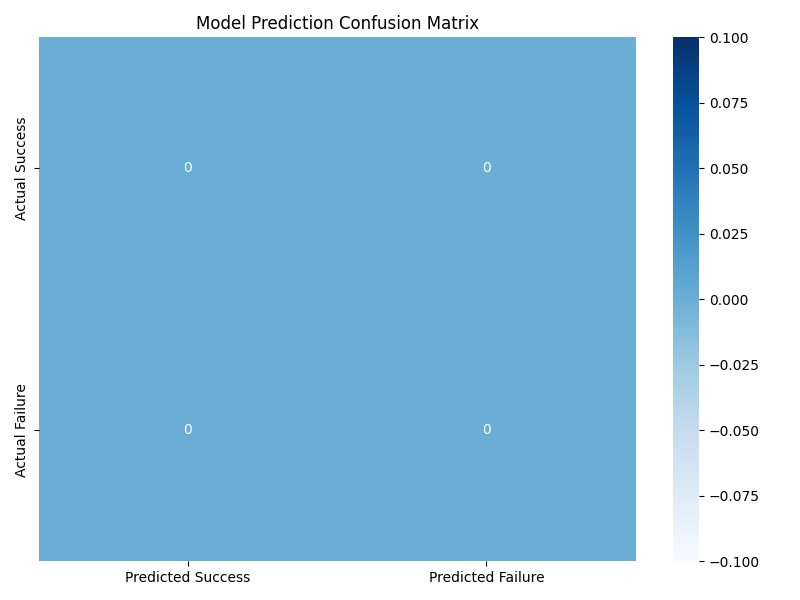
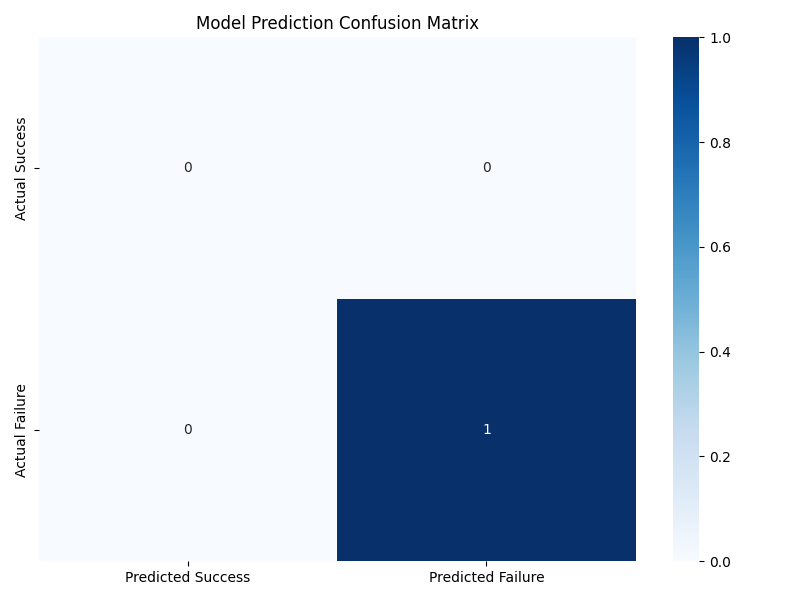
fix: update prompts for clarity, modify robot stop functionality, and adjust LLM parameters: need to fix evaluation results

diff --git a/src/flask_app/templates/irl_index.html b/src/flask_app/templates/irl_index.html
@@ -64,8 +64,8 @@
             {% endif %}
     </div>
 
-    <form action="{{ url_for('robot_set_home') }}" method="post">
-        <button type="submit">Stop LLM Control</button>
+    <form action="{{ url_for('stop_robot') }}" method="post">
+        <button type="submit">Stop Robot</button>
     </form>
 
 </div>

diff --git a/src/flask_app/evaluation_metrics.py b/src/flask_app/evaluation_metrics.py
@@ -221,6 +221,8 @@ class TaskEvaluator:
                         prompt_metrics[prompt_type] = []
 
                     # Calculate metrics
+                    prediction_metrics = self._calculate_prediction_metrics(task)
+
                     metrics_dict = {
                         "success": bool(task.completed),
                         "ground_truth_success": bool(task.ground_truth_success),
@@ -230,8 +232,12 @@ class TaskEvaluator:
                         "safety_violations": int(task.safety_violations),
                         "subtask_completion_rate": float(task.subtask_completion_rate),
                         "stuck_count": int(task.stuck_count),
-                        "subgoal_accuracy": self._calculate_subgoal_accuracy(task)
-                        **self._calculate_prediction_metrics(task)
+                        "subgoal_accuracy": self._calculate_subgoal_accuracy(task),
+                         "true_positives": prediction_metrics["true_positives"],
+                    "false_positives": prediction_metrics["false_positives"],
+                    "true_negatives": prediction_metrics["true_negatives"],
+                    "false_negatives": prediction_metrics["false_negatives"],
+                    "prediction_accuracy": prediction_metrics["prediction_accuracy"]
                     }
                     prompt_metrics[prompt_type].append(metrics_dict)
                 except Exception as e:
@@ -239,13 +245,14 @@ class TaskEvaluator:
                     continue
 
             # Generate plots with improved visualization
-            self._generate_metric_plots(prompt_metrics, output_dir)
+            if prompt_metrics:
+                self._generate_metric_plots(prompt_metrics, output_dir)
 
-            # Generate summary report
-            self._generate_summary_report(prompt_metrics, output_dir)
+                # Generate summary report
+                self._generate_summary_report(prompt_metrics, output_dir)
 
-            # Generate confusion matrix
-            self._plot_confusion_matrix(prompt_metrics, output_dir)
+                # Generate confusion matrix
+                self._plot_confusion_matrix(prompt_metrics, output_dir)
 
         except Exception as e:
             rich.print(f"[red]Error in generate_report:[/red] {e}")
@@ -355,36 +362,44 @@ class TaskEvaluator:
     def _generate_summary_report(self, prompt_metrics: Dict, output_dir: str):
         """Generate summary report with aggregate metrics"""
         try:
+            if not self.tasks:
+                rich.print("[yellow]No tasks to generate summary report from[/yellow]")
+                return
+
             report = {
-                "overall_metrics": {
-                    "total_tasks": len(self.tasks),
-                    "success_rate": sum(1 for t in self.tasks if t.completed) / len(self.tasks),
-                    "ground_truth_success_rate": sum(1 for t in self.tasks if t.ground_truth_success) / len(self.tasks),
-                    "prediction_accuracy": sum(1 for t in self.tasks
-                                            if t.completed == t.ground_truth_success) / len(self.tasks)
-                },
-                "metrics_by_task_type": {}
-            }
+            "overall_metrics": {
+                "total_tasks": len(self.tasks),
+                "success_rate": sum(1 for t in self.tasks if t.completed) / max(len(self.tasks), 1),
+                "ground_truth_success_rate": sum(1 for t in self.tasks if t.ground_truth_success) / max(len(self.tasks), 1),
+                "prediction_accuracy": sum(1 for t in self.tasks
+                                        if t.completed == t.ground_truth_success) / max(len(self.tasks), 1)
+            },
+            "metrics_by_task_type": {}
+        }
 
             # Calculate per task type metrics
             for prompt_type, metrics in prompt_metrics.items():
+
+                if not metrics:
+                    continue
+
                 report["metrics_by_task_type"][prompt_type] = {
-                    "total_tasks": len(metrics),
-                    "success_rate": sum(m["success"] for m in metrics) / len(metrics),
-                    "ground_truth_success_rate": sum(m["ground_truth_success"] for m in metrics) / len(metrics),
-                    "avg_duration": float(np.mean([m["duration"] for m in metrics])),
-                    "avg_actions": float(np.mean([m["action_count"] for m in metrics])),
-                    "avg_smoothness": float(np.mean([m["path_smoothness"] for m in metrics])),
-                    "avg_safety_violations": float(np.mean([m["safety_violations"] for m in metrics])),
-                    "avg_subtask_completion": float(np.mean([m["subtask_completion_rate"] for m in metrics])),
-                    "prediction_metrics": {
-                        "true_positives": sum(m["true_positives"] for m in metrics),
-                        "false_positives": sum(m["false_positives"] for m in metrics),
-                        "true_negatives": sum(m["true_negatives"] for m in metrics),
-                        "false_negatives": sum(m["false_negatives"] for m in metrics),
-                        "prediction_accuracy": float(np.mean([m["prediction_accuracy"] for m in metrics]))
-                    }
+                "total_tasks": len(metrics),
+                "success_rate": sum(m["success"] for m in metrics) / max(len(metrics), 1),
+                "ground_truth_success_rate": sum(m["ground_truth_success"] for m in metrics) / max(len(metrics), 1),
+                "avg_duration": float(np.mean([m["duration"] for m in metrics])),
+                "avg_actions": float(np.mean([m["action_count"] for m in metrics])),
+                "avg_smoothness": float(np.mean([m["path_smoothness"] for m in metrics])),
+                "avg_safety_violations": float(np.mean([m["safety_violations"] for m in metrics])),
+                "avg_subtask_completion": float(np.mean([m["subtask_completion_rate"] for m in metrics])),
+                "prediction_metrics": {
+                    "true_positives": sum(m["true_positives"] for m in metrics),
+                    "false_positives": sum(m["false_positives"] for m in metrics),
+                    "true_negatives": sum(m["true_negatives"] for m in metrics),
+                    "false_negatives": sum(m["false_negatives"] for m in metrics),
+                    "prediction_accuracy": float(np.mean([m["prediction_accuracy"] for m in metrics]))
                 }
+            }
 
             # Save report
             with open(os.path.join(output_dir, "evaluation_report.json"), "w") as f:

diff --git a/src/flask_app/LLM_robot_control_models.py b/src/flask_app/LLM_robot_control_models.py
@@ -94,10 +94,10 @@ class LLMController:
                 stream=False,
                 options={
                     **generation_config,
-                    'num_predict': 100,
-                    "max_output_tokens": 100,  # Restrict to short responses
+                    'num_predict': 40,
+                    "max_output_tokens": 40,  # Restrict to short responses
                     "max_tokens": 40,
-                    "temperature": 0.1,
+                    "temperature": 0.3,
                 }
             )
             print(f"scene descriptor: {response['message']['content'].strip()}")
@@ -156,7 +156,7 @@ class LLMController:
             - completed
 
         my goal is to achieve the following subgoals: {', '.join(all_subgoals)}.
-        I am Currently going to {self.current_goal}, my environment shows {scene_description}.
+        I am Currently trying to {self.current_goal}, my environment shows {scene_description}.
 
         My Previous actions: {', '.join(executed_actions) if executed_actions else 'None'}
         have resulted In Last feedback: {last_feedback if last_feedback else 'No feedback yet'}
@@ -165,14 +165,21 @@ class LLMController:
         1. Output ONLY ONE of the four valid actions listed above
         2. No explanations or other text
         3. Response must match exactly one valid action
-        4. DO NOT RESPOND WITH ANYTHING ELSE
+        4 Check image for obstacles before movement
+
             """
                 message = [
-                {"role": "system", "content": system_prompt_},
+                    {"role": "system", "content": system_prompt_},
                 {"role": "user", "content": "Initial state when task started:", 'images': [initial_image]},
-
                 {"role": "user", "content": "Current environment shows this image:", 'images': [current_image]},
-                {"role": "user", "content": f"Based on all images and the last feedback being: {last_feedback if last_feedback else 'no feedback'},\n my next action = "},
+                {"role": "user", "content": f"if the last feedback being for my last action was: {last_feedback if last_feedback else 'no feedback'},\n my next action is"},
+
+                # {"role": "user", "content": "Initial state when task started:", 'images': [initial_image]},
+                # {"role": "user", "content": "the intitial environment state vs Current environment shows this image:", 'images': [initial_image, current_image]},
+                # # {"role": "user", "content": "image showing lidar map showing obstacles in the environment", 'images': [map_image]},
+
+                # {"role": "user", "content": f"Based on all image and the feedback on my last action being to: {last_feedback if last_feedback else 'no feedback'},\n my next action = "},
+                # {"role": "system", "content": system_prompt_},
             ]
                 response = ollama.chat(
                     # model=self.model_name,
@@ -180,12 +187,10 @@ class LLMController:
                     messages=message,
                     stream=False,
                     options={
-                    "top_p": 0.3,
-                    "top_k": 20,
+                    "top_p": 0.5,
+                    "top_k": 10,
                     "num_predict": 3,
-
-                    "max_tokens" : 10,
-                    "temperature": 0.4,
+                    "temperature": 0.5,
                 }
                 )
                 if response and response['message']['content']:
@@ -215,7 +220,7 @@ class LLMController:
                 I will evaluate the robot's progress based on the images provided.
                 The Current scene shows: {self.get_scene_description(current_image)}
                 The Current Task is to {current_subgoal}.
-                So far the robot has done: [{', '.join(executed_actions if executed_actions else 'None')}].
+                So far the robot has made the following moves: [{', '.join(executed_actions if executed_actions else 'None')}].
 
                 I will Compare initial state and current state to determine and respond with only one of the following:
                     - continue (if some progress has been made but not complete)
@@ -228,10 +233,10 @@ class LLMController:
                     """
                 message = [
             {"role": "system", "content": formatted_prompt},
-            {"role": "user", "content": "Initial state image shows:", 'images': [initial_image]},
+            {"role": "user", "content": "Initial and current state image shows:", 'images': [initial_image, current_image]},
             # {"role": "user", "content": "Previous state:", 'images': [previous_image]},
-            {"role": "user", "content": "Current scene image:", 'images': [current_image]},
-            {"role": "user", "content": f"Progress after completing: {executed_actions if executed_actions else 'No action'} shows ..."}
+            # {"role": "user", "content": "Current scene image:", 'images': [current_image]},
+            # {"role": "user", "content": f"Progress after completing: {executed_actions if executed_actions else 'No action'} "}
 
             # {"role": "user", "content": base64.b64encode(map_image).decode('utf-8'), "is_image": True},
             # {"role": "user", "content": "Map:"},

diff --git a/src/flask_app/robot_control_over_ssh.py b/src/flask_app/robot_control_over_ssh.py
@@ -16,17 +16,34 @@ class RobotControl:
         # self._execute_command_for_duration(command, 3)
         return True
 
+    def stop_robot(self):
+        command = "rostopic pub /mobile_base_controller/cmd_vel geometry_msgs/Twist '[0.0,0.0,0.0]' '[0.0, 0.0, 0.0]' --once"
+        self.ssh_client.execute_command(command)
+        return True
+
+    # def _execute_timed_command(self, command, duration=2):
+    #     try:
+    #         self.ssh_client.execute_command(command)
+    #         time.sleep(duration)
+    #         self.stop_robot()  # Stop after duration
+    #     except Exception as e:
+    #         print(f"Failed to execute command: {e}")
+    #         raise e
+
     def move_forward(self):
         print("[green] excuting move forward [/green]")
         command = "rostopic pub /mobile_base_controller/cmd_vel geometry_msgs/Twist '[0.5,0.0,0.0]' '[0.0, 0.0, 0.0]' --once"
-        # self._execute_command_for_duration(command, 100)
-        try:
-            self.ssh_client.execute_command(command)
-            time.sleep(1)
-        except Exception as e:
-            print(f"Failed to connect to SSH: {e}")
-            raise e
+        self.ssh_client.execute_command(command)
+        time.sleep(1)
         return True
+        # try:
+        #     self.ssh_client.execute_command(command)
+        #     time.sleep(4)
+
+        # except Exception as e:
+        #     print(f"Failed to connect to SSH: {e}")
+        #     raise e
+        # return True
 
     def turn_right(self):
         print("[green] excuting turn right [/green]")

diff --git a/src/flask_app/irl_app.py b/src/flask_app/irl_app.py
@@ -33,7 +33,7 @@ from sensor_data import fetch_images, trigger_capture_script, trigger_stop_scrip
 
 app = Flask(__name__)
 robot_control = RobotControl()
-llm_controller = LLMController(simulation=True) #!! using Llava:7b model
+llm_controller = LLMController(simulation=False)
 lidar_safety = LidarSafety()
 # Thread management
 executor = ThreadPoolExecutor(max_workers=3)
@@ -128,6 +128,11 @@ def turn_left():
     # return jsonify({"status": "success", "action": "turn_left"})
     return '', 204
 
+@app.route('/stop_robot', methods=['POST', 'GET'])
+def stop_robot():
+    robot_control.stop_robot()
+    # return jsonify({"status": "success", "action": "stop_robot"})
+    return '', 204
 # endregion
 
 # region LLM control

diff --git a/src/flask_app/gemini_config.py b/src/flask_app/gemini_config.py
@@ -41,9 +41,6 @@ Now based on the given prompt, respond exclusively with one of the following fun
 Rules:
 - Use EXACTLY one of these commands
 - Check image for obstacles before movement
-- Ensure arm is tucked before base movement
-- Consider camera view limitations
-- Moving head will adjust the camera view
 """
 # do not use any words outside these thirteen options, note that 6 conescutive turns in one direction is essentially a 180 turn.
 
